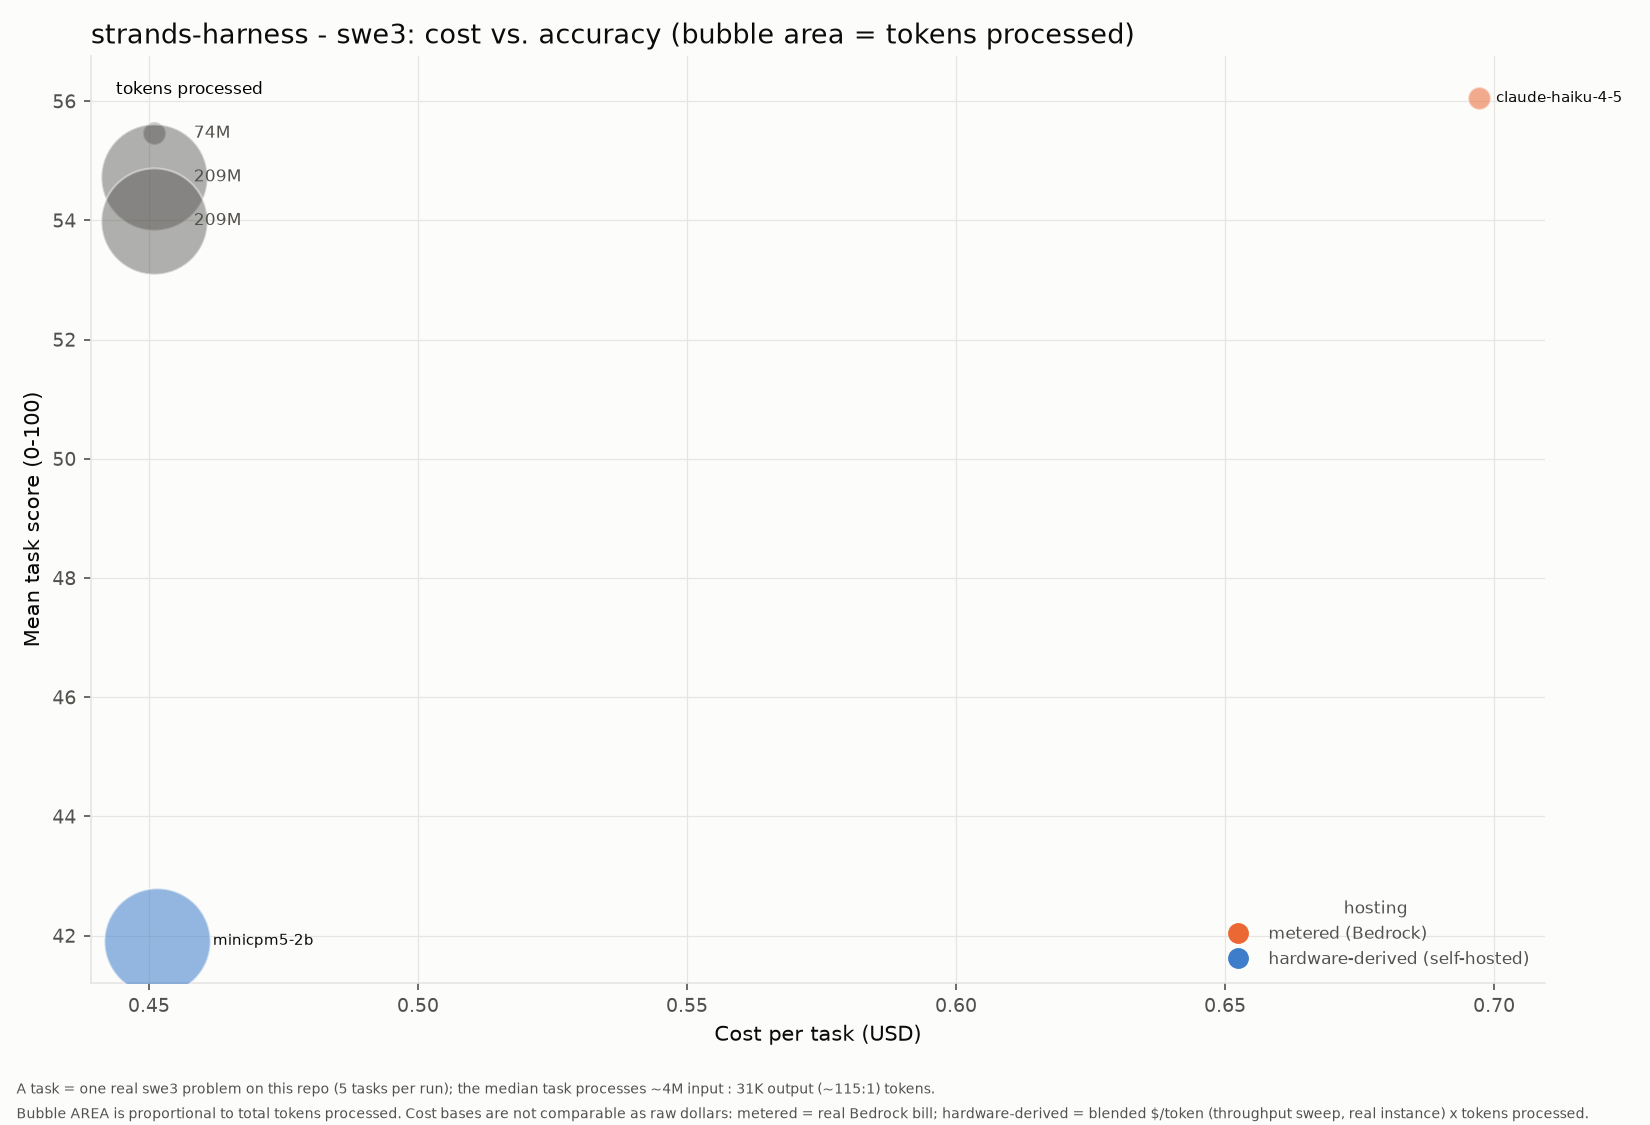
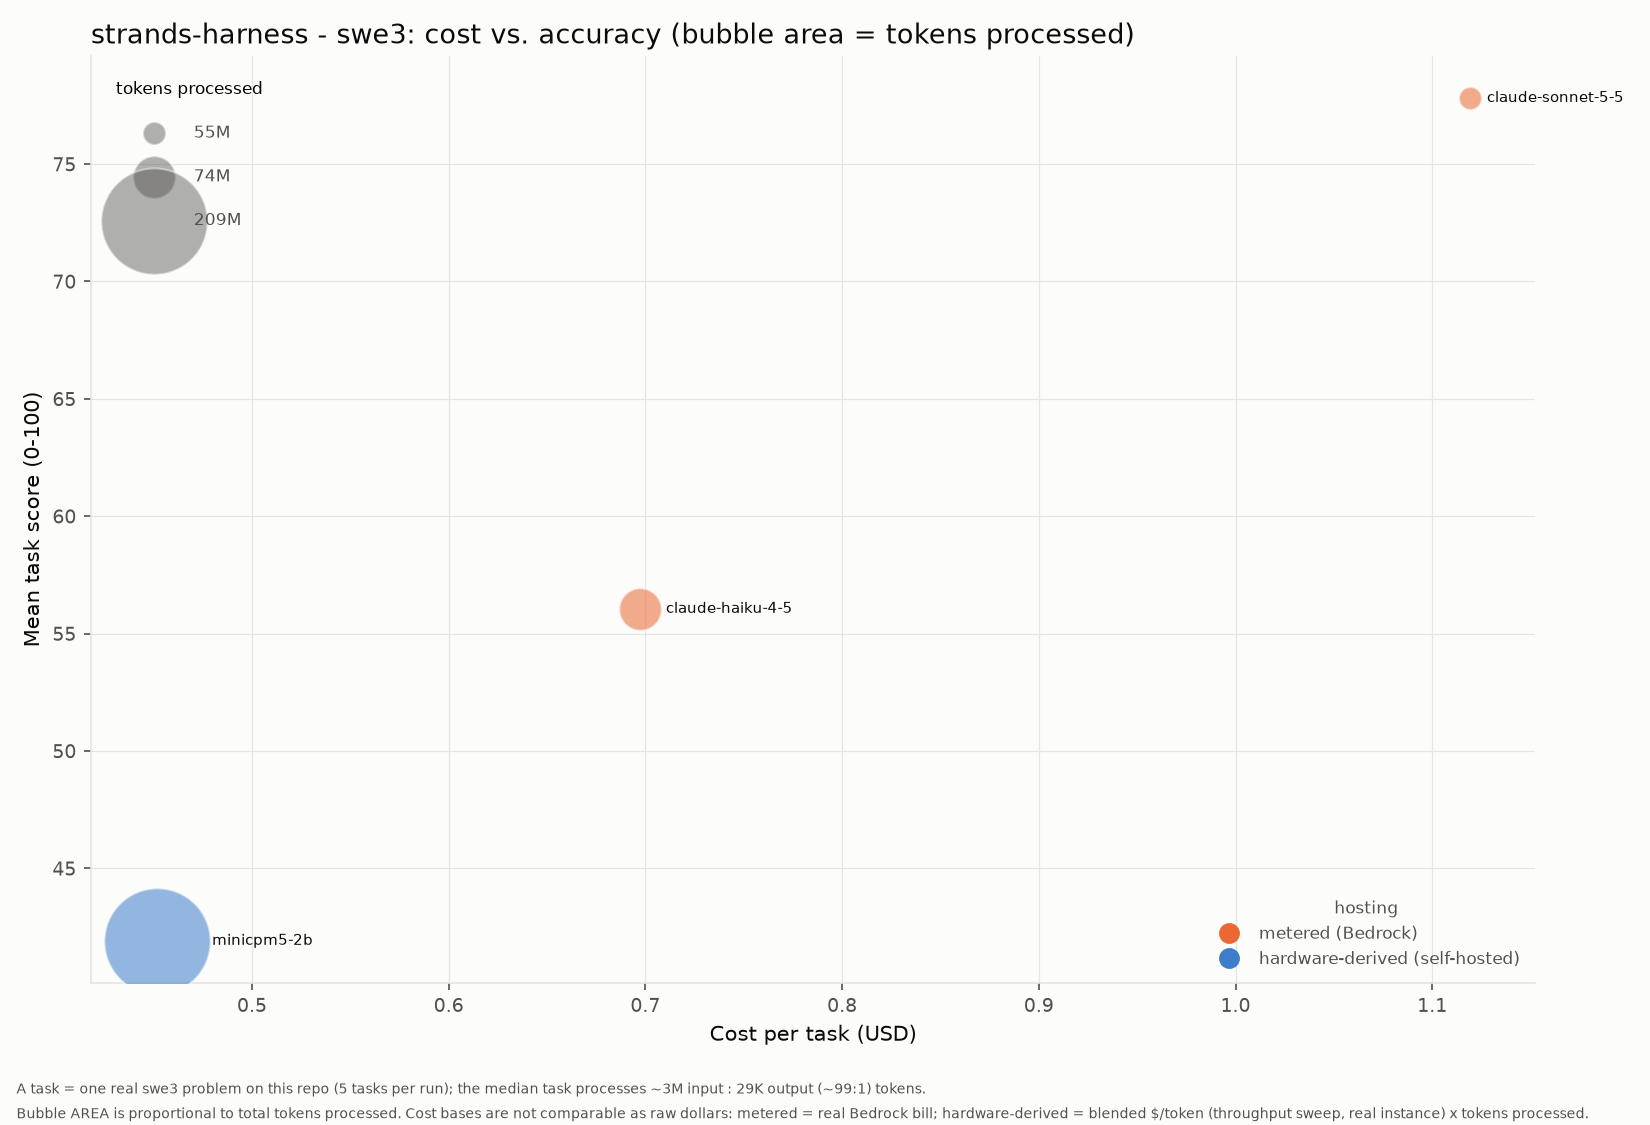
Add Sonnet 5.5 to the Strands harness results docs (#217)
Regenerate harness-strands-harness-swe3.md and its three charts with the
Sonnet 5.5 run from #216, restore the hand-written notes with a Sonnet 5.5
row, and add the row to the results table in docs/strands-harness.md.

diff --git a/docs/harness-strands-harness-swe3.md b/docs/harness-strands-harness-swe3.md
@@ -6,6 +6,7 @@ Benchmark results for every model run under the **Strands harness (create_harnes
 
 | Model | Mean score | Completed | Input | Output | Cache read | Cache write | Tokens processed† | Wall-clock | Run cost | Cost basis* |
 |---|---:|---:|---:|---:|---:|---:|---:|---:|---:|---|
+| claude-sonnet-5-5 | 77.81 | 21/21 | 56,899 | 755,444 | 52,479,831 | 2,133,327 | 55,425,501 | 87.5m | $23.50 | metered (Bedrock) |
 | claude-haiku-4-5 | 56.05 | 21/21 | 196,458 | 793,458 | 70,997,542 | 1,637,152 | 73,624,610 | 119.5m | $14.64 | metered (Bedrock) |
 | minicpm5-2b | 41.91 | 20/21 | 1,774,615 | 777,921 | 206,897,216 | 0 | 209,449,752 | 187.8m | $9.03 | hardware-derived (g6e.4xlarge) |
 
@@ -35,15 +36,18 @@ x = cost per task, y = mean score, bubble area = total tokens processed, color =
 
 This section is written by hand, below the generated part, and a regenerate does not keep it. Add it back after running the generator.
 
-`--agent strands-harness` builds the agent with the Strands team's `create_harness()`, with web tools, subagents, memory and sessions turned off; [strands-setup.md](strands-setup.md#the-strands-harness---agent-strands-harness) lists every setting. Both runs used the runner from [#212](https://github.com/aarora79/agentic-coding-harness-benchmarks/pull/212) and [#213](https://github.com/aarora79/agentic-coding-harness-benchmarks/pull/213), so the tool map, the `bash` alias and the recursion limit applied. The loop guard applied to the Haiku run only.
+`--agent strands-harness` builds the agent with the Strands team's `create_harness()`, with web tools, subagents, memory and sessions turned off; [strands-setup.md](strands-setup.md#the-strands-harness---agent-strands-harness) lists every setting. All three runs used the runner from [#212](https://github.com/aarora79/agentic-coding-harness-benchmarks/pull/212) and [#213](https://github.com/aarora79/agentic-coding-harness-benchmarks/pull/213), so the tool map, the `bash` alias and the recursion limit applied. The loop guard applied to the Haiku and Sonnet 5.5 runs, and it never fired in the Sonnet 5.5 run.
 
 The same model under the other harnesses, on the same 21 tasks:
 
 | Model | omp | Strands, hand-built Agent | Strands harness |
 |---|---|---|---|
+| claude-sonnet-5-5 | not run | 76.73, 21/21, $0.96 | 77.81, 21/21, $1.12 |
 | claude-haiku-4-5 | 56.18, 21/21, $0.76 | 51.20, 20/21, $0.70 | 56.05, 21/21, $0.70 |
 | minicpm5-2b | 42.59, 19/21 | 45.28, 21/21 | 41.91, 20/21 |
 
 Sources: each harness's `run-summary.json` under `benchmarks/swe-benchmark-data/<model>/`. The hand-built Haiku run predates the runner changes in [#204](https://github.com/aarora79/agentic-coding-harness-benchmarks/pull/204), so part of its gap may come from those changes, not from the harness.
 
 Two `minicpm5-2b` tasks looped: `lifecycle-workflow-webhooks` ran `git diff HEAD --stat` 674 times over 844 turns and still wrote all six artifacts, and `logout-id-token-hint-out-of-browser-url` repeated one `grep` 542 times and hit the recursion limit after 1,148 turns with no artifacts. Together they used 125M of the run's 209M tokens. The loop guard in #213 would have stopped both at 40 repeats.
+
+On Sonnet 5.5 the harness scored 1.08 points above the hand-built agent and cost $0.16 more a task. On Haiku 4.5 the gap was 4.85 points.

diff --git a/docs/strands-harness.md b/docs/strands-harness.md
@@ -34,10 +34,11 @@ The same flag works with `--provider vllm`, which the MiniCPM5-2B run used, and 
 
 | Model | omp | `--agent strands` | `--agent strands-harness` |
 |---|---|---|---|
+| claude-sonnet-5-5 | not run | 76.73, 21/21, $0.96 | 77.81, 21/21, $1.12 |
 | claude-haiku-4-5 | 56.18, 21/21, $0.76 | 51.20, 20/21, $0.70 | 56.05, 21/21, $0.70 |
 | minicpm5-2b | 42.59, 19/21 | 45.28, 21/21 | 41.91, 20/21 |
 
-Each cell is the mean score, the tasks scored and, for Bedrock, the cost per task, from each harness's `run-summary.json` under `benchmarks/swe-benchmark-data/<model>/`. Per-task tables and charts: [harness-strands-harness-swe3.md](harness-strands-harness-swe3.md). The MiniCPM5-2B harness run predates the loop guard, and two of its tasks looped; one of them used most of its tokens and ended at the recursion limit with no artifacts.
+Each cell is the mean score, the tasks scored and, for Bedrock, the cost per task, from each harness's `run-summary.json` under `benchmarks/swe-benchmark-data/<model>/`. Per-task tables and charts: [harness-strands-harness-swe3.md](harness-strands-harness-swe3.md). On Sonnet 5.5 the harness scored 1.08 points above the hand-built agent and cost $0.16 more a task; there is no omp run of Sonnet 5.5 on this dataset. The MiniCPM5-2B harness run predates the loop guard, and two of its tasks looped; one of them used most of its tokens and ended at the recursion limit with no artifacts.
 
 ## Which one to use
 
